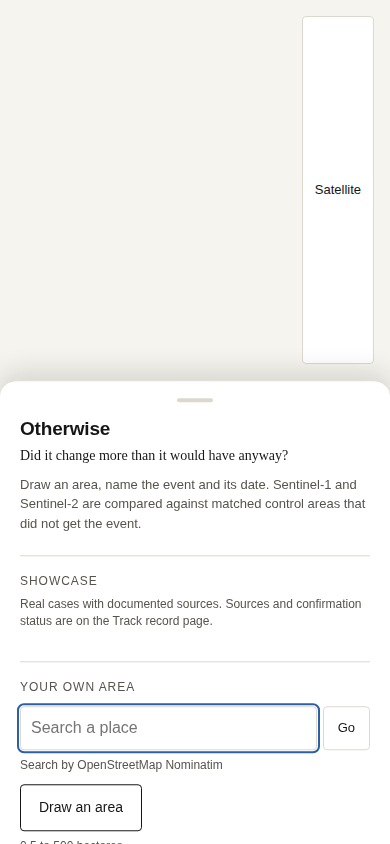
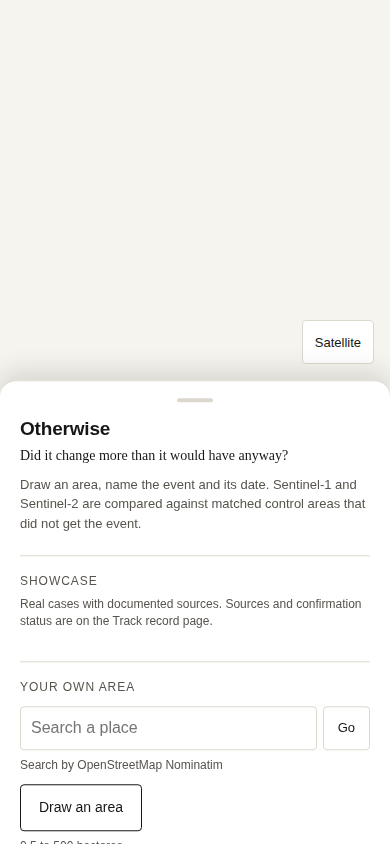
Mobile bottom-sheet redesign: Google Maps style landing page, responsive verdict/track/batch
Landing page (/): full-screen map behind a draggable bottom sheet with three
snap points (peek ~120px, half 55vh, full 92vh), spring-eased CSS transition,
pointer+touch dragging with velocity-aware flick-to-next-snap and
nearest-snap-on-slow-release, and correct drag-vs-scroll arbitration (content
scrolls normally except when already at top and dragging down, which
collapses the sheet). Drag surfaces are the handle plus the wordmark/tagline
("the sheet header"). Sheet drops to peek on "Draw an area" and rises to half
once #run-form appears (MutationObserver, no edits to landing.js), and sits
at peek while a run is in progress. Satellite toggle and Leaflet's bottom
controls float just above the sheet's current edge via a --sheet-visible CSS
var kept in sync while dragging/snapping.

Verdict page: no full-screen navigational map exists there (only a small
inline "control cells" locator map inside a collapsed details panel), so no
sheet was invented for it, per the task's explicit instruction not to invent
a map-first layout. Instead: single column, legible hero/number sizing, the
before/after slider and charts sized to viewport width, and both the
"receipts" table and the numbers table made horizontally scrollable inside
their own container rather than widening the page.

Track record / batch: minimum viable -- tables scroll inside .table-wrap,
inputs are 16px to avoid iOS zoom-on-focus, tap targets are >=44px.
[…]

Changed region(s): [[0.0308, 0.8318, 0.8308, 0.8934], [0.8, 0.4005, 0.9231, 0.4313], [0.8, 0.2156, 0.9231, 0.2464]]

diff --git a/web/index.html b/web/index.html
@@ -12,7 +12,6 @@
 <link rel="stylesheet" href="https://cdnjs.cloudflare.com/ajax/libs/leaflet.draw/1.0.4/leaflet.draw.css">
 <link rel="stylesheet" href="/static/app.css">
 <link rel="stylesheet" href="/static/landing.css">
-<link rel="stylesheet" href="/static/mobile.css">
 <style>
   html, body { height: 100%; overflow: hidden; }
   #map { position: fixed; inset: 0; z-index: 0; }
@@ -61,6 +60,9 @@
   .panel-footer a:hover { color: var(--ink); }
   .panel-footer .attribution { display: block; margin-top: 8px; line-height: 1.4; }
 </style>
+<!-- placed after the block above so it wins the cascade at equal specificity
+     against those unconditional rules (e.g. .map-toggle's desktop top/right) -->
+<link rel="stylesheet" href="/static/mobile.css">
 </head>
 <body>
 <div id="map" role="application" aria-label="Map"></div>

diff --git a/web/track.html b/web/track.html
@@ -9,7 +9,6 @@
 <link rel="preconnect" href="https://fonts.gstatic.com" crossorigin>
 <link href="https://fonts.googleapis.com/css2?family=Inter:wght@400;500;600&display=swap" rel="stylesheet">
 <link rel="stylesheet" href="/static/app.css">
-<link rel="stylesheet" href="/static/mobile.css">
 <style>
   .page-head { padding: 44px 0 8px; }
   .page-head h1 { font-size: 32px; font-weight: 600; letter-spacing: -0.02em; }
@@ -19,6 +18,8 @@
   td.verdict-cell { font-weight: 500; }
   .v-REAL.verdict-cell, .v-NOT_REAL.verdict-cell, .v-CANT_TELL.verdict-cell { font-weight: 500; }
 </style>
+<!-- after the block above so it wins the cascade at equal specificity -->
+<link rel="stylesheet" href="/static/mobile.css">
 </head>
 <body>
 <div class="container">

diff --git a/web/mobile.css b/web/mobile.css
@@ -93,6 +93,17 @@
   #side-panel.sheet-peek #draw-block {
     display: none;
   }
+  /* the "Your own area" section becomes the first visible one once the
+     showcase section above it is hidden — drop its own top spacing/rule
+     so the search row sits right under the wordmark within peek's ~120px */
+  #side-panel.sheet-peek .panel-section:not(:first-of-type) {
+    margin-top: 6px;
+    padding-top: 0;
+    border-top: none;
+  }
+  #side-panel.sheet-peek > h1 {
+    margin-bottom: 2px;
+  }
 
   /* the satellite toggle and Leaflet's own bottom-anchored controls float
      just above the sheet's current visible edge, wherever that is —

diff --git a/scripts/desktop_screenshots.py b/scripts/desktop_screenshots.py
@@ -44,6 +44,18 @@ Determinism
   section. Scrolling once, fully, settles every section at its resting
   state (and returns the sticky verdict pill to its own resting state)
   before the shot is taken.
+- The browser context is forced to `prefers-reduced-motion: reduce`
+  (`reduced_motion="reduce"` + `page.emulate_media`). verdict.js reads that
+  media feature once at load (`REDUCED`) and, when set, skips chart.js's
+  ~1.1s stroke-dashoffset draw-in animation for the trajectory chart
+  entirely (drawing it fully revealed on the first frame) instead of
+  racing the screenshot against an in-flight animation; app.css's own
+  `@media (prefers-reduced-motion: reduce)` block does the same for the
+  `.reveal` fade/slide-in transitions. This was the actual source of the
+  small (tens-to-low-hundreds-pixel) verdict-page diffs seen before this
+  flag was added — confirmed by diffing two screenshots of the *same*
+  unmodified checkout, taken moments apart, which showed the same kind of
+  diff in the same chart region purely from run-to-run animation timing.
 """
 from __future__ import annotations
 
@@ -137,8 +149,9 @@ def capture(base_url: str, showcase_id: str, outdir: str) -> list[str]:
         try:
             for slug, path in pages_for(showcase_id):
                 for w, h in VIEWPORTS:
-                    ctx = browser.new_context(viewport={"width": w, "height": h})
+                    ctx = browser.new_context(viewport={"width": w, "height": h}, reduced_motion="reduce")
                     page = ctx.new_page()
+                    page.emulate_media(reduced_motion="reduce")
                     page.route("**/*", block_tiles)
                     page.goto(f"{base_url}{path}", wait_until="networkidle", timeout=30_000)
                     out_path = os.path.join(outdir, f"{slug}_{w}x{h}.png")
